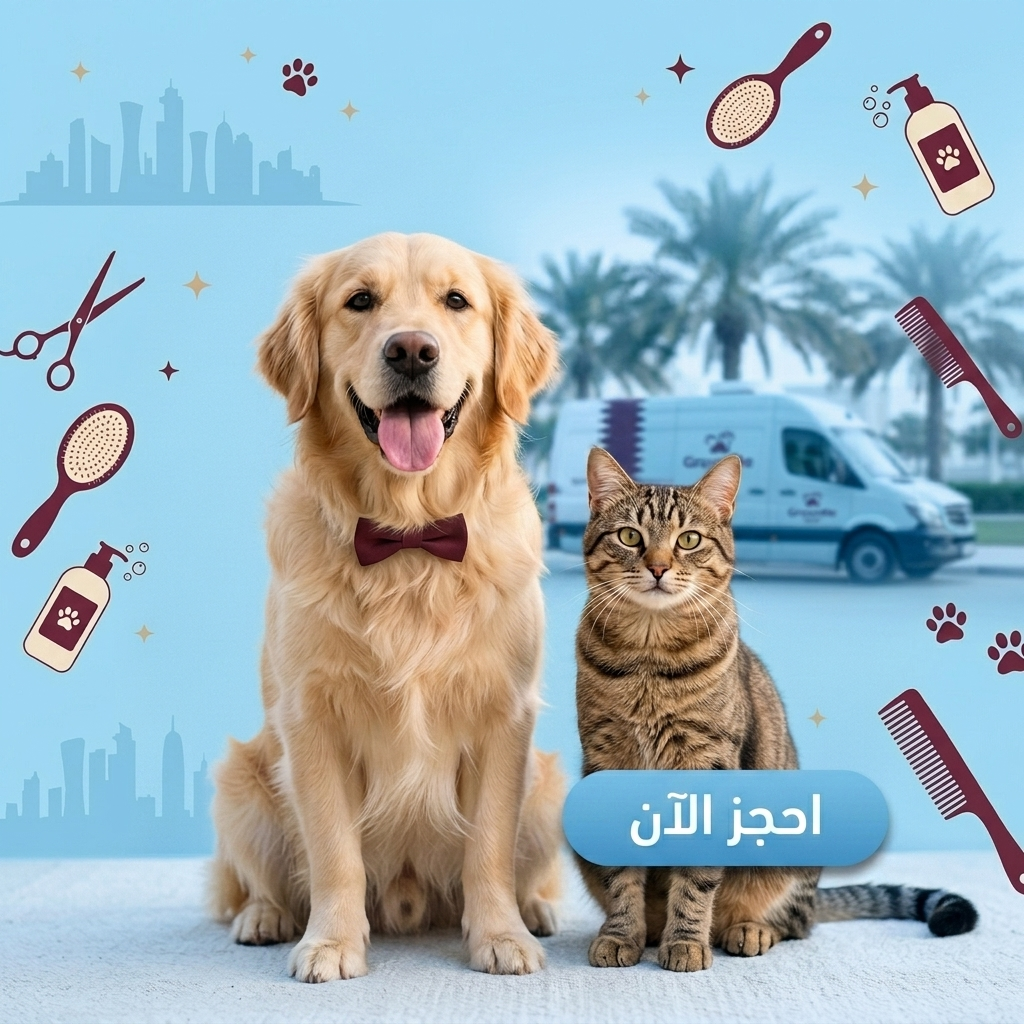
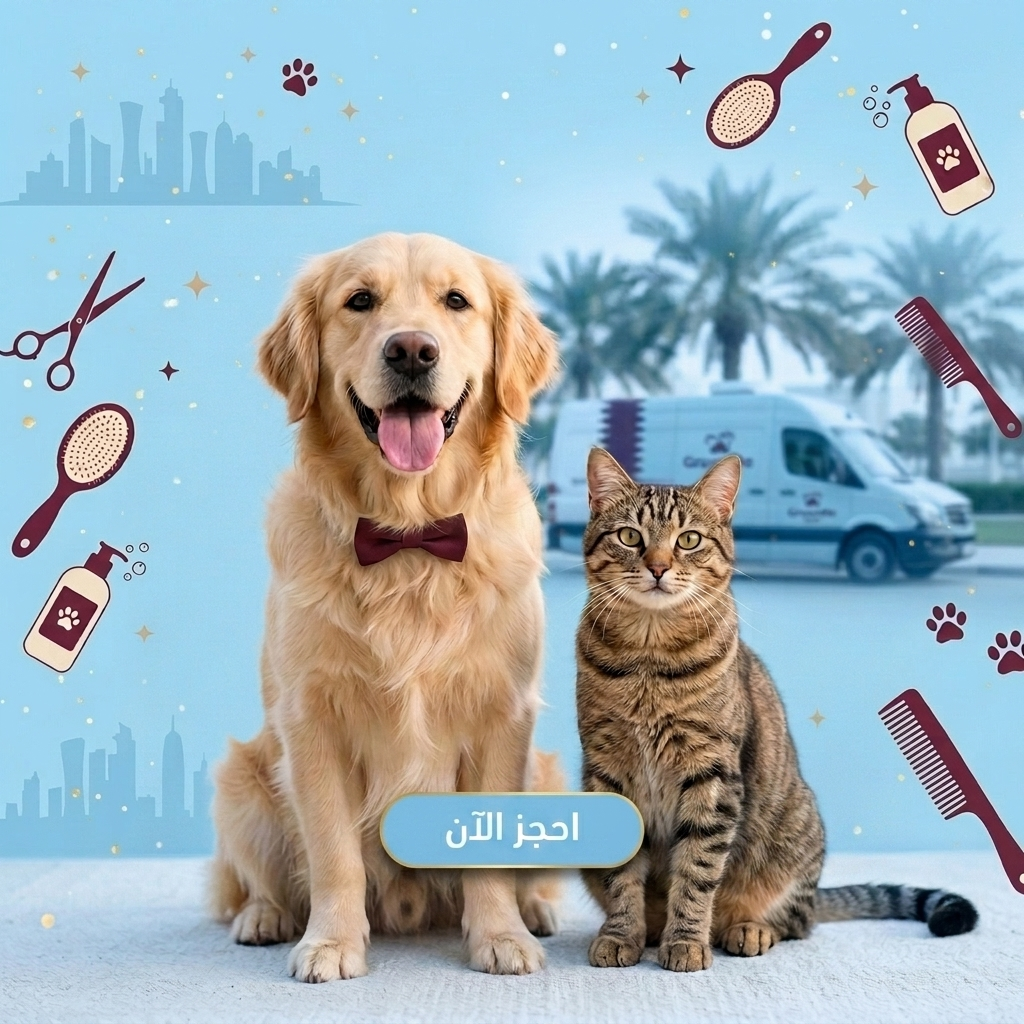
feat: enhance SEO metadata and update OpenGraph image to centered layout

diff --git a/index.html b/index.html
@@ -17,7 +17,10 @@
     />
     <meta name="author" content="GroomMe Qatar" />
     <meta name="robots" content="index, follow, max-image-preview:large" />
-    <link rel="canonical" href="https://groomme.qa/" />
+    <link rel="canonical" href="https://grooome.vercel.app/" />
+    <link rel="alternate" hreflang="en" href="https://grooome.vercel.app/" />
+    <link rel="alternate" hreflang="ar" href="https://grooome.vercel.app/?lang=ar" />
+    <link rel="alternate" hreflang="x-default" href="https://grooome.vercel.app/" />
 
     <!-- OpenGraph -->
     <meta property="og:type" content="website" />
@@ -59,8 +62,8 @@
         "name": "GroomMe Qatar",
         "alternateName": "Groom Me for Pet Service",
         "description": "Premium mobile pet grooming service in Doha, Qatar. Professional dog and cat grooming at your doorstep.",
-        "url": "https://groomme.qa",
-        "image": "https://groomme.qa/og-image.jpg",
+        "url": "https://grooome.vercel.app",
+        "image": "https://grooome.vercel.app/og-image.png",
         "telephone": "+974",
         "areaServed": { "@type": "Country", "name": "Qatar" },
         "address": {
